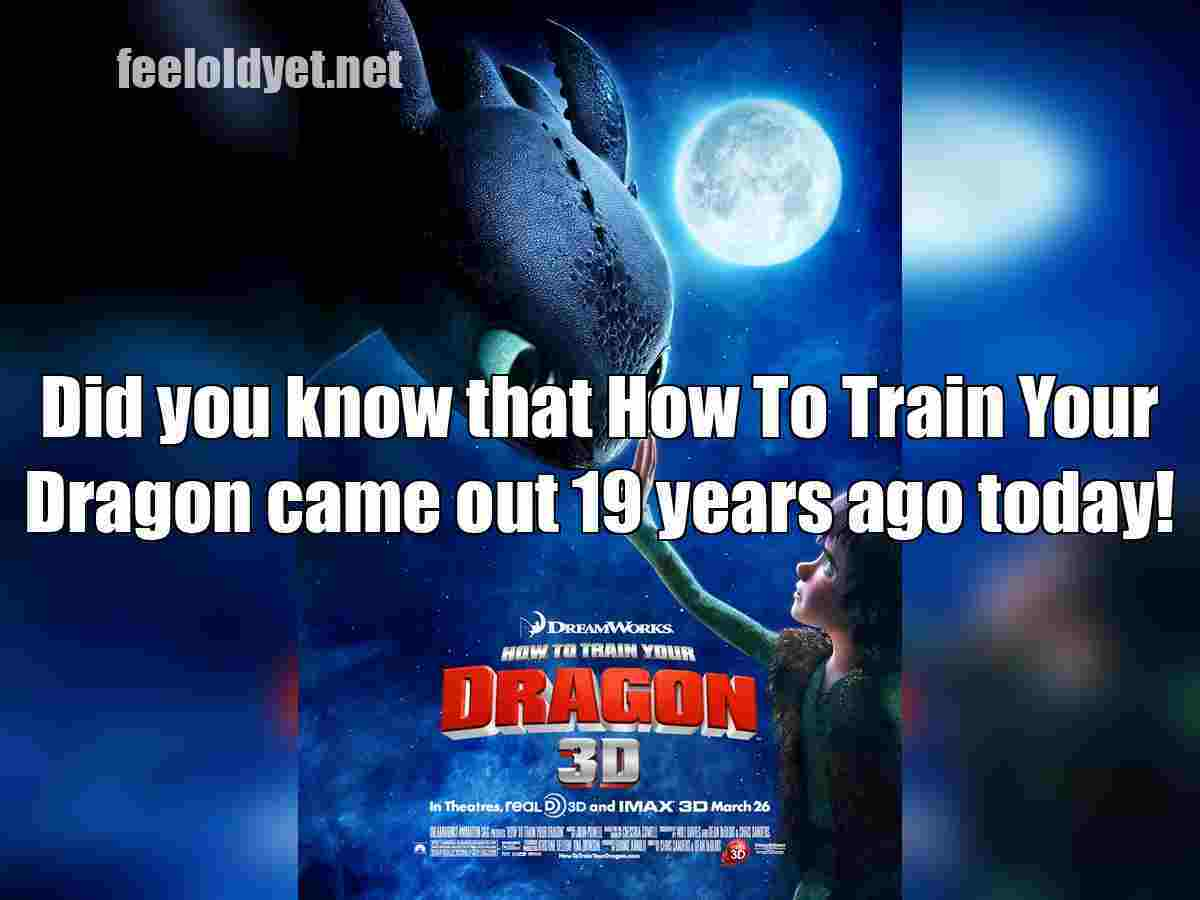
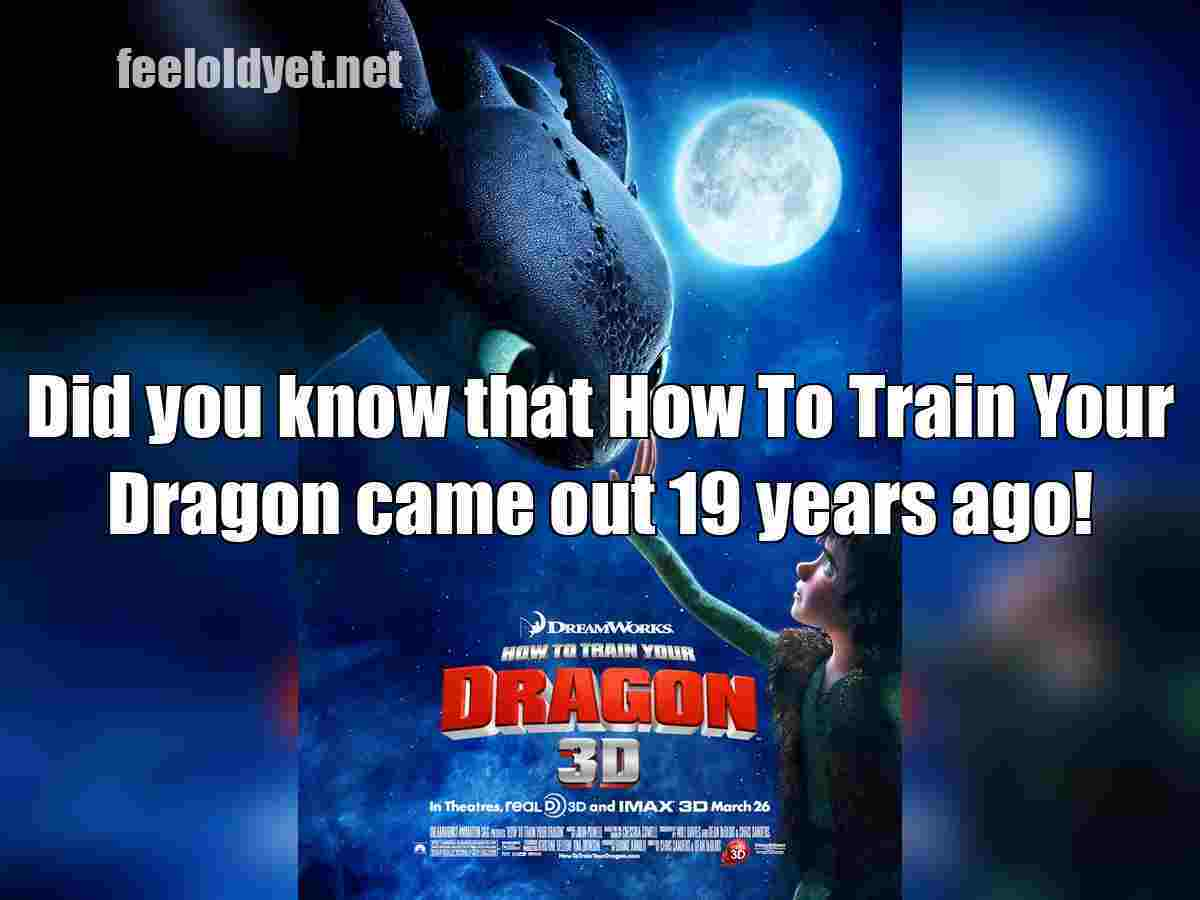
Removed "today"

Changed region(s): [[0.0, 0.4044, 0.9867, 0.6222]]

diff --git a/main.py b/main.py
@@ -79,7 +79,7 @@ def create_birthday_image(input_image, output_image_path, name, age, font_path='
         raise ValueError("Text cannot be fit into the image")
 
     # Create the text string
-    text = f"Did you know that {name} came out {age} years ago today!"
+    text = f"Did you know that {name} came out {age} years ago!"
 
     # Fit text to image
     max_text_width = output_width - 40
